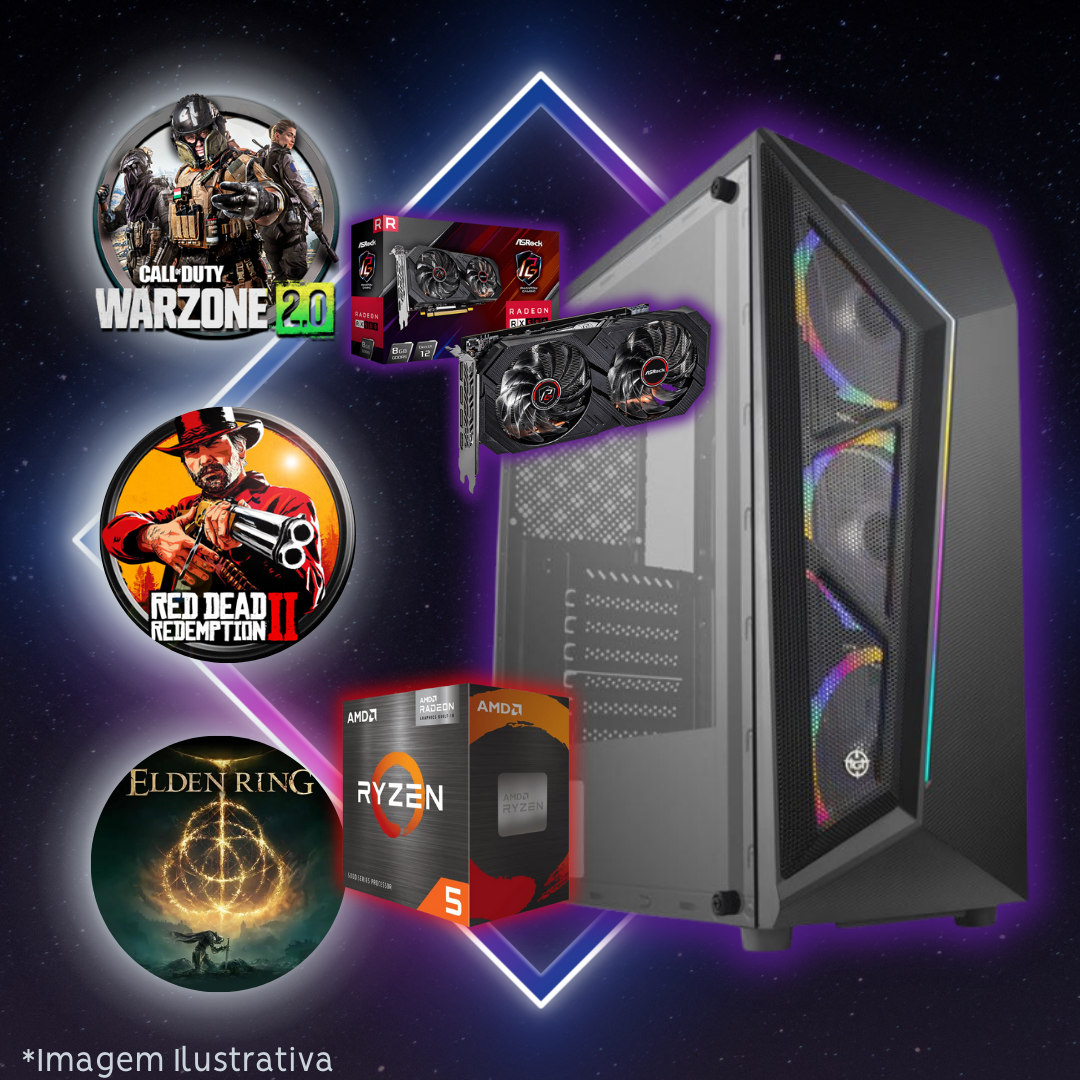
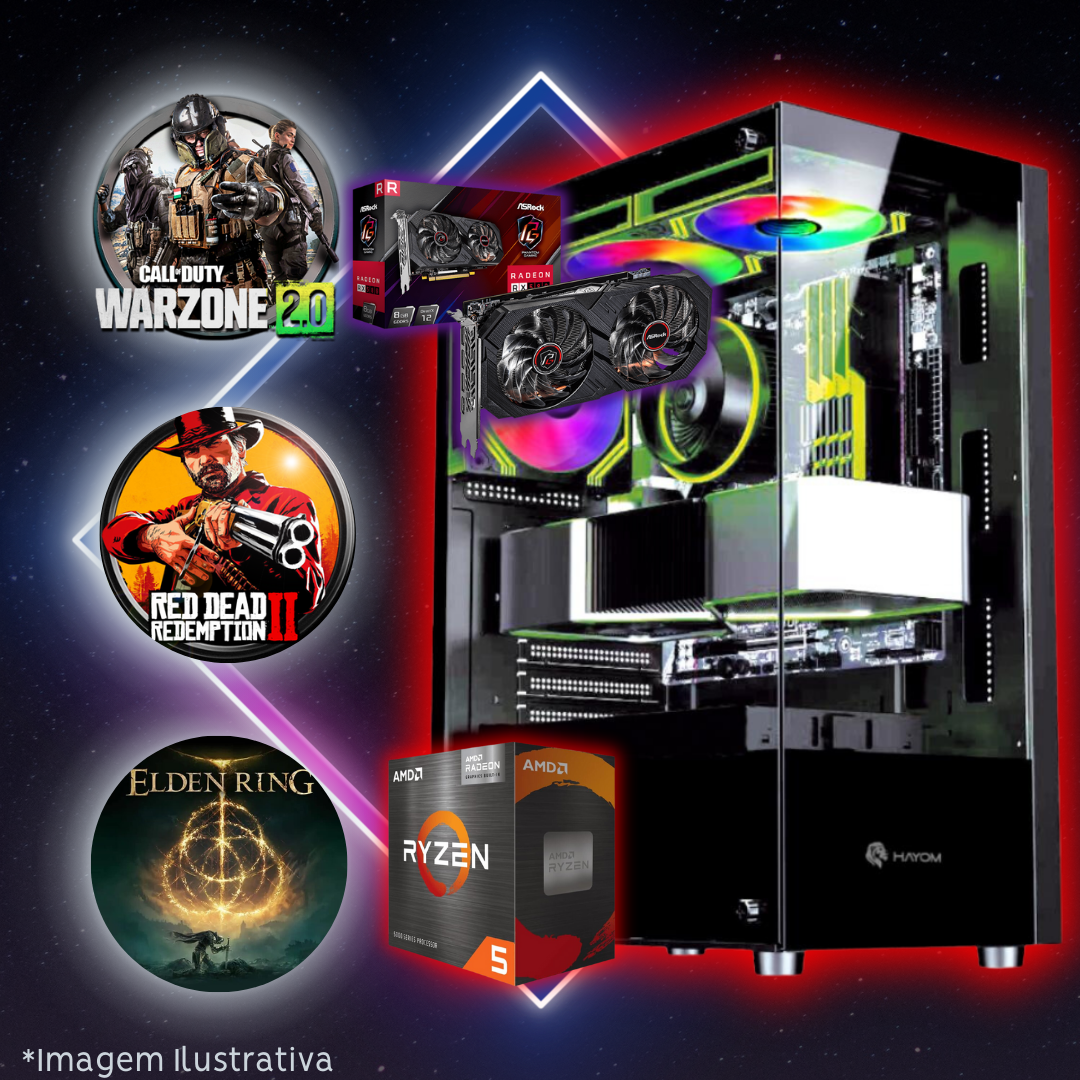
Changing Cabinet TGT to Cabinet Hayom

diff --git a/src/routes/amd/+page.svelte b/src/routes/amd/+page.svelte
@@ -24,7 +24,7 @@
     },
     {
       title: "Nº5 - RYZEN 4500 + RX 580",
-      image: "3600.GTX1660S.png",
+      image: "4500-RX580.png",
       text: "💥 LEAGUE OF LEGENDS\n🌎 MINECRAFT\n🟥 ROBLOX\n🔫 VALORANT\n🔫 WARZONE\n🔫 CSGO 2\n🦙 FORTNITE\n 🐎Red Dead Redemption 2\n🗡Elden Ring\n\n*Processador:* RYZEN 5 4500\n*Placa Mãe:* A520\n*Memória RAM:* 16GB DDR4 2666Hz\n*Placa de Vídeo:* RX 580 8GB ASROCK\n*Armazenamento:* SSD 480GB\n*Gabinete:* GAMER C/ 3 FANS RGB FRONTAIS\n*Fonte:* 500W\n\nPOR APENAS *R$ 4.190,00* em até 10x sem juros!",
     },
     {
